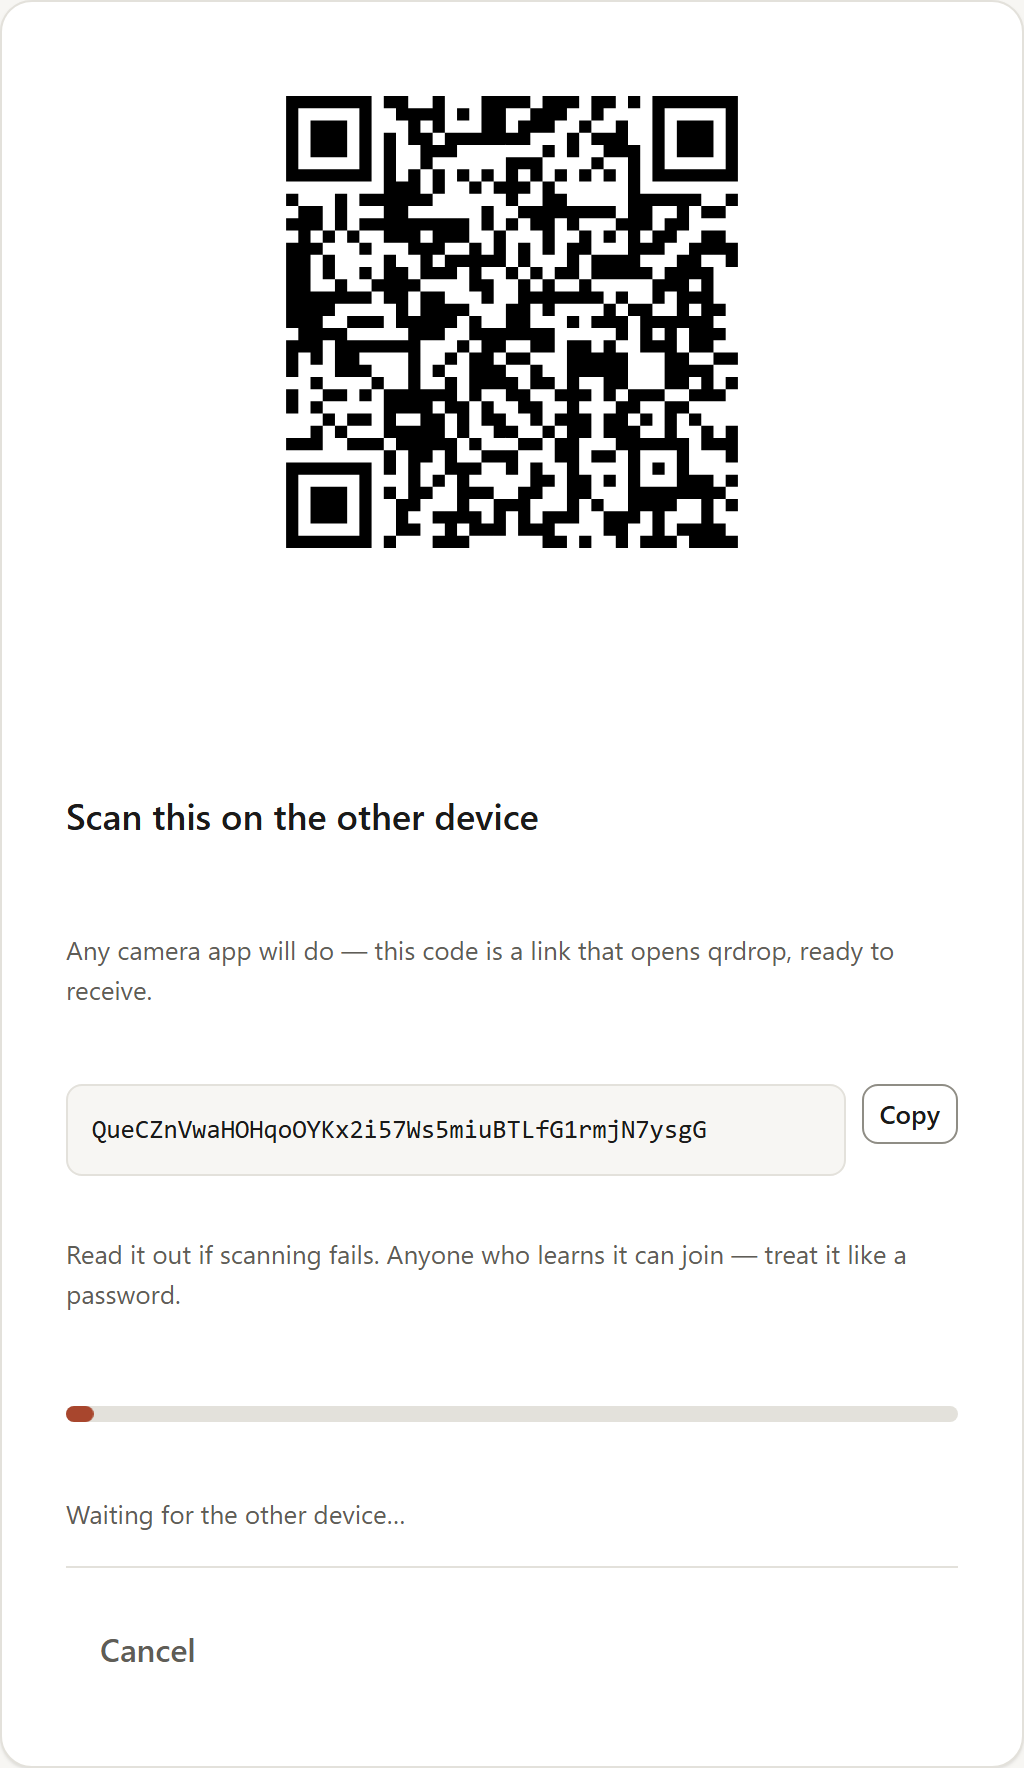
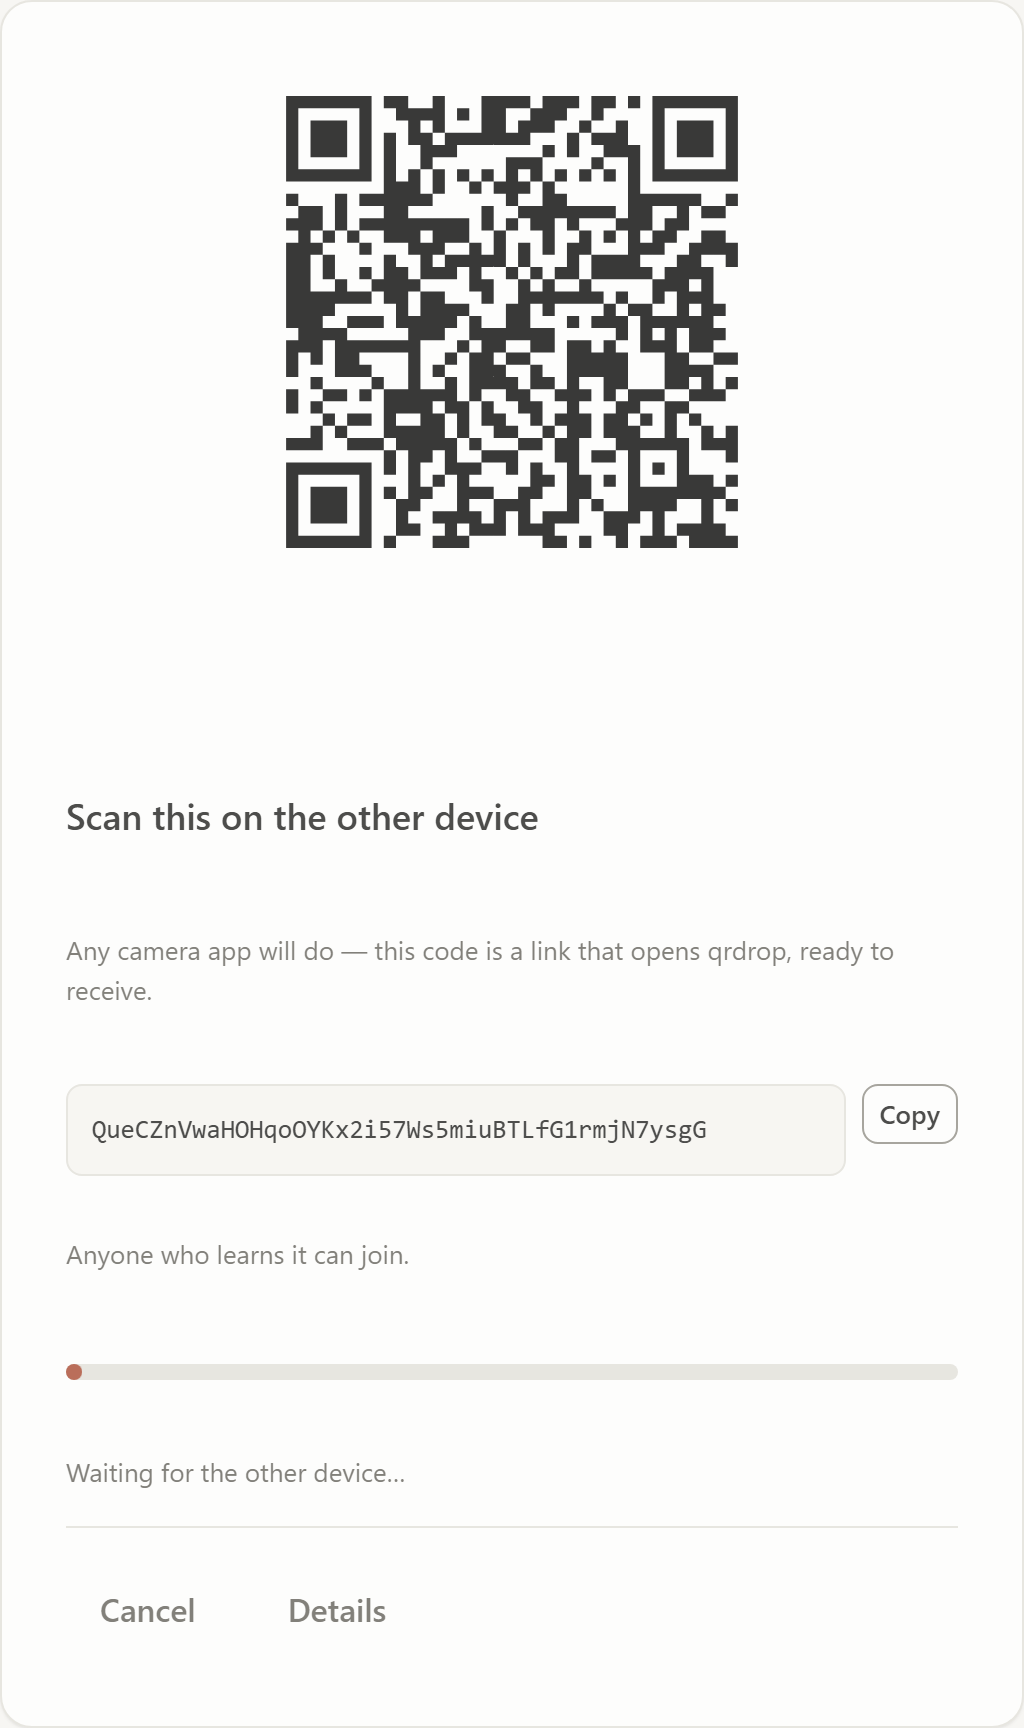
refactor(web): move send and beam-send reassurance copy into info sheets
The send screen carried its read-it-aloud fallback and its
treat-it-like-a-password warning inline; beam-send's status line carried
two sentences of reassurance ("Several passes are normal", "Nothing comes
back here") alongside the loop count it exists to report. None of that is
what a person is on those screens to find out, and both screens overran a
phone viewport's card body.

Each screen now declares an `info` sheet -- 'About this code' and 'About
beaming' -- and the frame draws the Details button that opens it, the same
slot `choose` already uses. The inline note on send keeps only the one
sentence that changes what a person does next; beam-send's status line
keeps only the loop count and per-pass duration. BEAM_WARNING and the
keep-it-on-screen instruction stay inline, untouched -- they are the
reason beam is allowed to skip the SAS and must never be demoted.

Sentences were moved verbatim, not rewritten, bar splitting one run-on
into two where the demotion forced it. check-layout.mjs still reports 14
overflowing combinations, down in magnitude but not cleared: the trimmed
notes were minor contributors next to the QR block, the code row and the
pairing bar, and the remaining offenders (receive, verify, beam-receive,
and the two sheet fixtures that render over them) carry no sentence that
can move -- a manual-entry form, the SAS warning, BEAM_WARNING. Clearing
those needs a layout change, not more cuts, so per the standing rule the
[…]

diff --git a/src/web/view.js b/src/web/view.js
@@ -542,8 +542,7 @@ function send(state, dispatch) {
         'aria-label': 'Copy the transfer code',
       }, copyLabel(state, 'code')),
     ]),
-    h('p', { class: 'note' },
-      'Read it out if scanning fails. Anyone who learns it can join — treat it like a password.'),
+    h('p', { class: 'note' }, 'Anyone who learns it can join.'),
     state.pairing
       ? h('div', {
         class: 'bar indeterminate', role: 'progressbar', 'aria-label': 'Connecting', 'aria-valuetext': state.status,
@@ -554,6 +553,19 @@ function send(state, dispatch) {
     actions: [
       h('button', { class: 'btn ghost', type: 'button', onclick: () => dispatch('cancel') }, 'Cancel'),
     ],
+
+    // The read-it-aloud fallback and the password warning are both true and
+    // neither is what a sender is looking at this screen to find out, so they
+    // move off it. The inline note keeps only the one sentence that changes
+    // what a person does next -- "anyone who learns it can join" -- and the
+    // rest waits behind the frame's Details button.
+    info: {
+      title: 'About this code',
+      content: [
+        h('p', { class: 'note' }, 'Read it out if scanning fails.'),
+        h('p', { class: 'note' }, 'Treat it like a password.'),
+      ],
+    },
   }
 }
 
@@ -960,12 +972,24 @@ function beamSend(state, dispatch) {
     // single pass takes -- which at least turns "keep it up indefinitely" into
     // a number someone can plan around.
     h('p', { class: 'status', 'aria-live': 'polite' },
-      `Shown in full ${loops} time${loops === 1 ? '' : 's'}, ${duration(eta)} per pass. Several passes are `
-      + 'normal. Nothing comes back here, so stop only when the other device says so.'),
+      `Shown in full ${loops} time${loops === 1 ? '' : 's'}, ${duration(eta)} per pass.`),
     ],
     actions: [
       h('button', { class: 'btn ghost', type: 'button', onclick: () => dispatch('cancel') }, 'Cancel'),
     ],
+
+    // The warning and the keep-it-on-screen instruction stay inline -- they are
+    // the whole reason this screen is careful. What moves is the reassurance
+    // around them: that many passes are expected, and that nothing on this side
+    // reports progress. True, but not what the status line is for.
+    info: {
+      title: 'About beaming',
+      content: [
+        h('p', { class: 'note' }, 'Several passes are normal.'),
+        h('p', { class: 'note' },
+          'Nothing comes back here, so stop only when the other device says so.'),
+      ],
+    },
   }
 }
 
